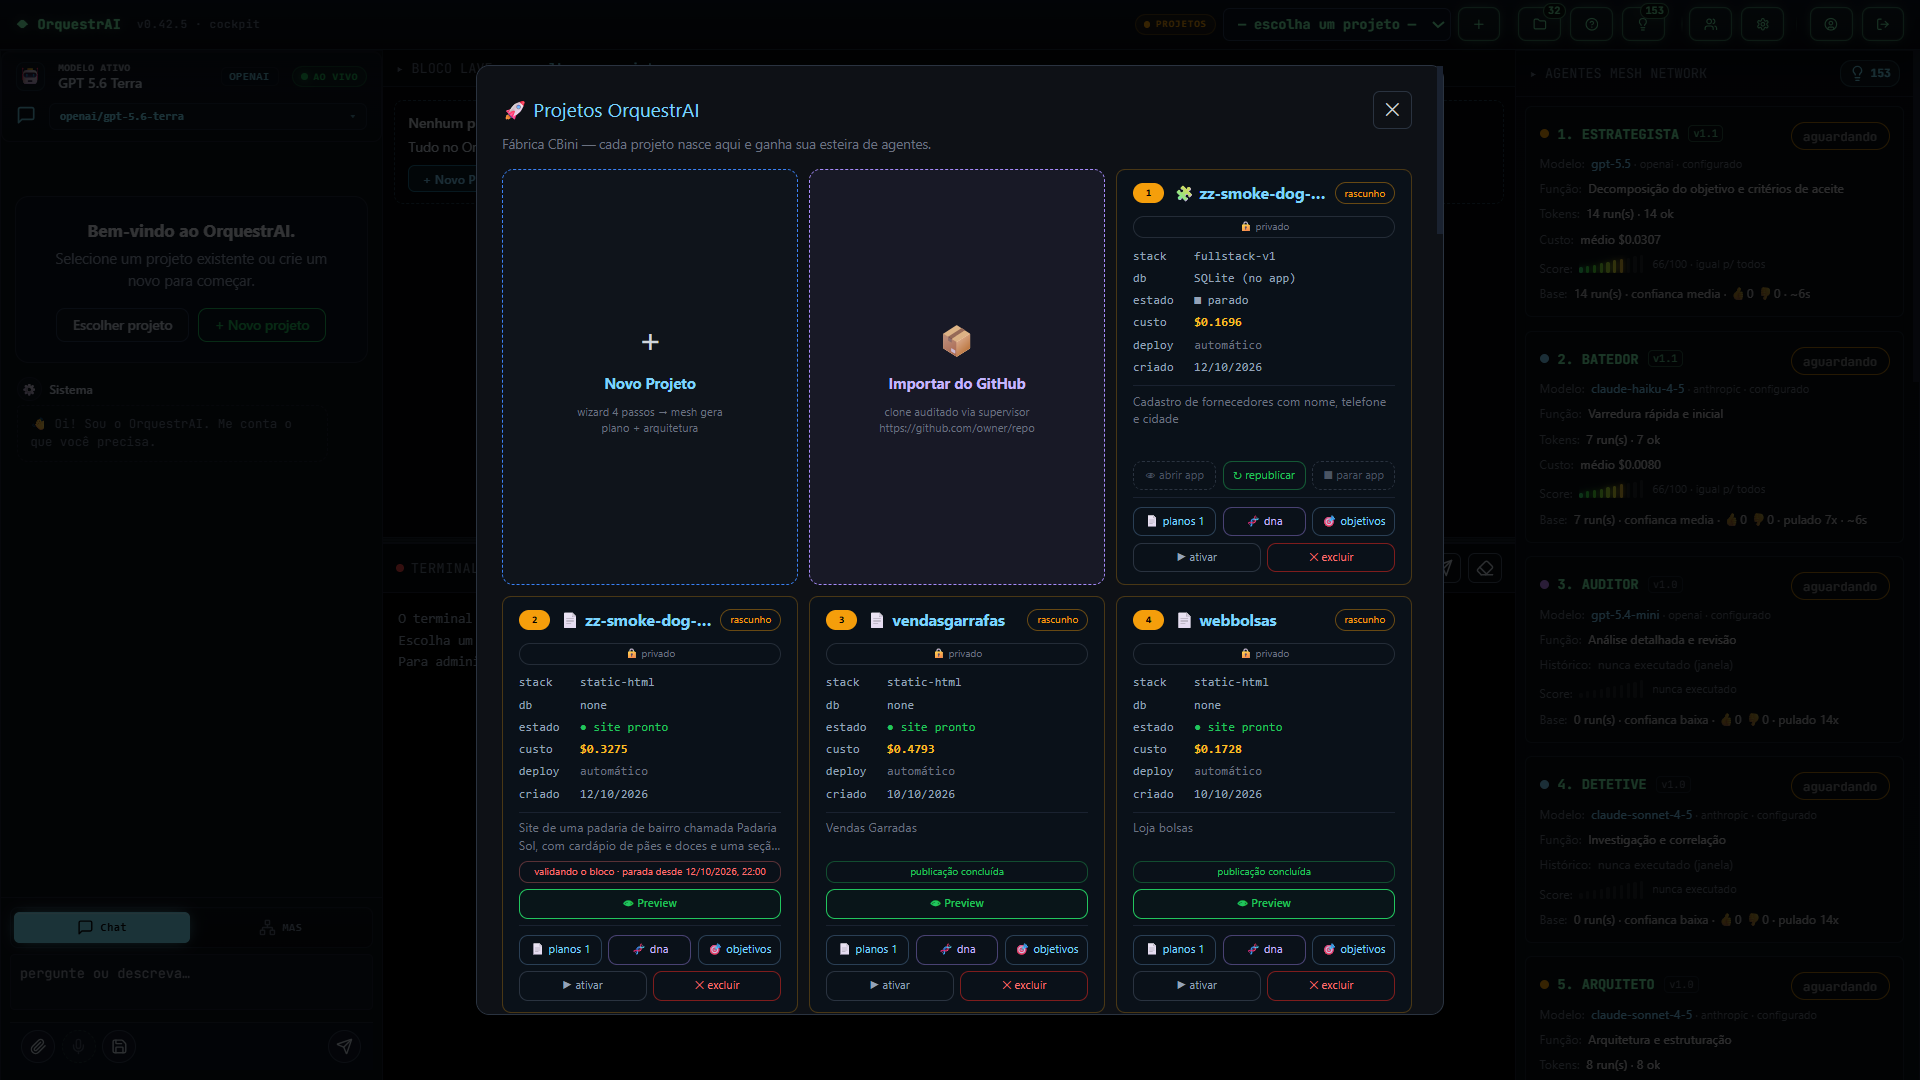
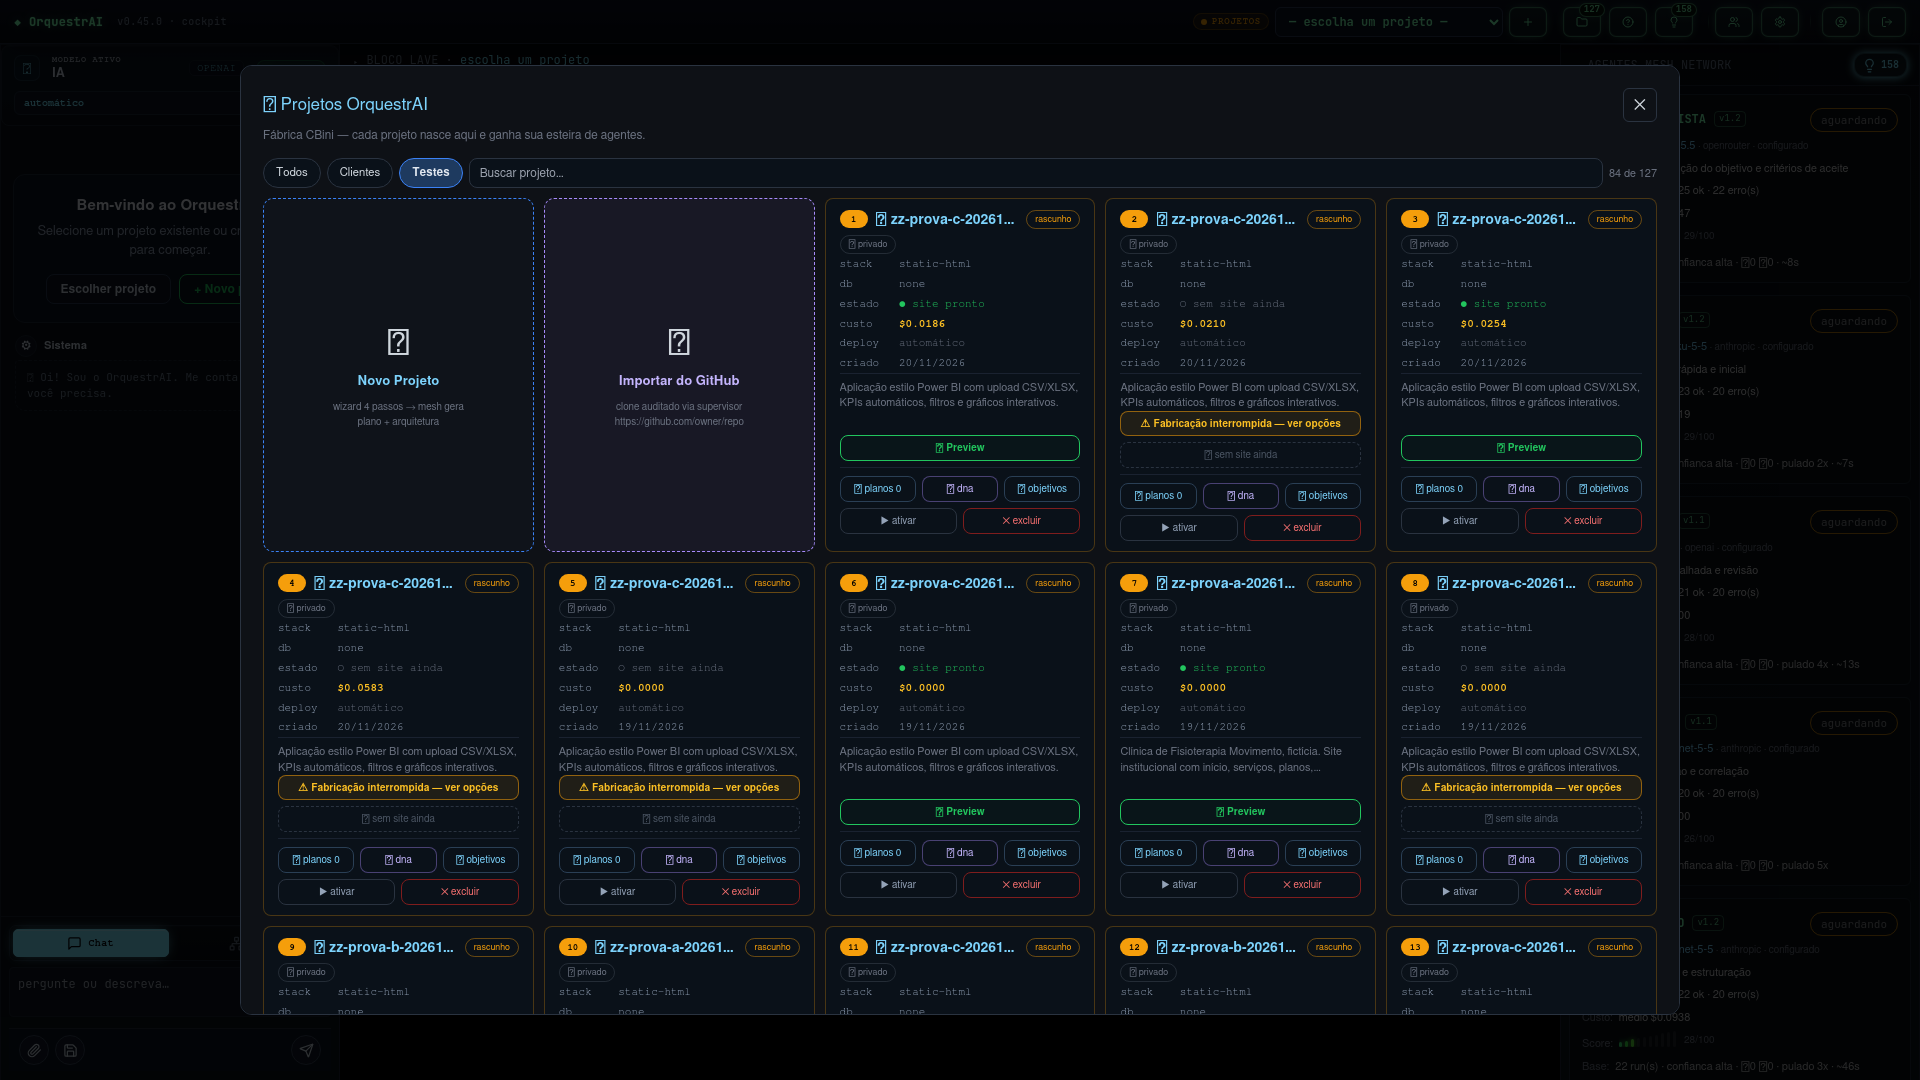
docs: 0.45.1 released (EN/PT/ES) -- project filters, provider cards, sign-in screen; gallery updated with real captures

diff --git a/docs/gallery-br.md b/docs/gallery-br.md
@@ -2,13 +2,20 @@
 
 🇧🇷 **Português** · 🇺🇸 [English](gallery.md) · 🇪🇸 [Español](gallery-es.md) · [README](../README-BR.md) · [Glossário](glossary-br.md) · [Arquitetura](arch-br.md)
 
-Capturas reais de uma instalação em uso (outubro de 2026, versão 0.42), sem edição. Números, estados e avisos aparecem como estavam —
+Capturas reais de uma instalação em uso (outubro de 2026, versão 0.42; acesso, projetos e provedores atualizados em novembro de 2026, versão 0.45.1), sem edição. Números, estados e avisos aparecem como estavam —
 inclusive o que ainda está sendo trabalhado. Clique numa imagem para abri-la em tamanho real.
 
 - [Cockpit e operação](#cockpit-e-operação) · [Agentes e orquestração](#agentes-e-orquestração) ·
   [Governança e conhecimento](#governança-e-conhecimento) · [Provedores e custos](#provedores-e-custos)
 
 ## Cockpit e operação
+
+### Acesso
+<a href="../assets/screenshots/login.png"><img src="../assets/screenshots/login.png" width="100%" alt="Tela de acesso: barra fina com o link para o Changelog, símbolo e nome OrquestrAI com o slogan, protocolo de acesso em quatro etapas e o formulário de e-mail e senha com a verificação da Cloudflare"></a>
+
+A entrada mostra o protocolo de acesso em quatro etapas (ler credenciais, avaliar a sessão, verificar o 2FA, executar o acesso) e o
+formulário com a verificação anti-robô. O slogan "A IA acelera. O humano decide." se escreve e se apaga em loop; para quem reduz o
+movimento no sistema, ele fica fixo, como nesta captura (novembro de 2026, versão 0.45.1).
 
 ### Cockpit
 <a href="../assets/screenshots/cockpit.png"><img src="../assets/screenshots/cockpit.png" width="100%" alt="Cockpit do OrquestrAI sem projeto escolhido: chat com o modelo ativo à esquerda, bloco de comando e terminal somente leitura no centro, malha de agentes com modelo, função, execuções, custo e score à direita"></a>
@@ -21,8 +28,9 @@ função, execuções, custo médio e score de cada um.
 <a href="../assets/screenshots/projetos.png"><img src="../assets/screenshots/projetos.png" width="100%" alt="Janela de projetos: novo projeto e importação do GitHub, e cards de projeto com stack, banco, estado, custo, modo de deploy e data de criação"></a>
 
 Cada card mostra stack, banco, estado, custo acumulado, modo de deploy e data de criação, com preview, planos, DNA (a identidade do
-projeto) e objetivos. Projetos novos começam num assistente guiado; a importação do GitHub passa por um clone auditado. Os cards mostram
-o estado real de cada projeto, inclusive um parado enquanto um bloco era validado.
+projeto) e objetivos. Projetos novos começam num assistente guiado; a importação do GitHub passa por um clone auditado. Desde a 0.45.1, a lista tem os
+filtros Todos, Clientes e Testes e uma busca por nome; nesta captura (novembro de 2026), o filtro Testes mostra só os projetos de prova.
+Os cards mostram o estado real de cada projeto, inclusive construções interrompidas.
 
 ### Estado
 <a href="../assets/screenshots/estado.png"><img src="../assets/screenshots/estado.png" width="100%" alt="Painel de estado: CPU, memória e disco do servidor, idade do backup, checks, placar do roadmap e decisões pendentes do operador"></a>
@@ -76,8 +84,10 @@ quando não existe, a tela diz isso.
 ### Provedores
 <a href="../assets/screenshots/provedores.png"><img src="../assets/screenshots/provedores.png" width="100%" alt="Painel de provedores: saldo por provedor quando disponível e, para cada provedor, estado da conexão, chave configurada, modelo padrão, latência e última verificação"></a>
 
-Por provedor: estado da conexão, modelo padrão, latência e última verificação. O saldo aparece quando o provedor o informa pela API;
-nos demais, é inferido das recusas e rotulado como inferido. As chaves nunca são exibidas — só se há uma configurada.
+Desde a 0.45.1, um cartão por provedor (novembro de 2026): **conexão** (último teste ou última chamada atendida, com a data) e
+**saldo**. O saldo aparece quando o provedor o informa pela API; nos demais, é inferido das recusas e rotulado como inferido, ou aparece
+"não informado pelo provedor". Abaixo, a lista detalhada: estado, modelo do teste, latência e última verificação. As chaves nunca são
+exibidas — só se há uma configurada.
 
 ### Telemetria
 <a href="../assets/screenshots/telemetria.png"><img src="../assets/screenshots/telemetria.png" width="100%" alt="Telemetria: chamadas, custo medido, tokens e falhas em 30 dias e desde o início, e chamadas por classe de preço"></a>

diff --git a/docs/gallery-es.md b/docs/gallery-es.md
@@ -2,13 +2,20 @@
 
 🇪🇸 **Español** · 🇧🇷 [Português](gallery-br.md) · 🇺🇸 [English](gallery.md) · [README](../README-ES.md) · [Glosario](glossary-es.md) · [Arquitectura](arch-es.md)
 
-Capturas reales de una instalación en uso (octubre de 2026, versión 0.42), sin edición. La interfaz está en portugués. Números, estados
+Capturas reales de una instalación en uso (octubre de 2026, versión 0.42; acceso, proyectos y proveedores actualizados en noviembre de 2026, versión 0.45.1), sin edición. La interfaz está en portugués. Números, estados
 y avisos se muestran como estaban — incluso lo que todavía está en desarrollo. Haga clic en una imagen para abrirla a tamaño real.
 
 - [Cockpit y operación](#cockpit-y-operación) · [Agentes y orquestación](#agentes-y-orquestación) ·
   [Gobernanza y conocimiento](#gobernanza-y-conocimiento) · [Proveedores y costos](#proveedores-y-costos)
 
 ## Cockpit y operación
+
+### Acceso
+<a href="../assets/screenshots/login.png"><img src="../assets/screenshots/login.png" width="100%" alt="Pantalla de acceso: barra fina con el enlace al Changelog, símbolo y nombre OrquestrAI con el lema, protocolo de acceso en cuatro pasos y el formulario de correo y contraseña con la verificación de Cloudflare"></a>
+
+La entrada muestra el protocolo de acceso en cuatro pasos (leer credenciales, evaluar la sesión, verificar el 2FA, ejecutar el acceso)
+y el formulario con la verificación anti-robot. El lema "A IA acelera. O humano decide." (La IA acelera. El humano decide.) se escribe y
+se borra en bucle; para quien reduce el movimiento, queda fijo, como en esta captura (noviembre de 2026, versión 0.45.1).
 
 ### Cockpit
 <a href="../assets/screenshots/cockpit.png"><img src="../assets/screenshots/cockpit.png" width="100%" alt="Cockpit de OrquestrAI sin proyecto elegido: chat con el modelo activo a la izquierda, bloque de comando y terminal de solo lectura en el centro, malla de agentes con modelo, función, ejecuciones, costo y puntuación a la derecha"></a>
@@ -22,7 +29,9 @@ agentes — modelo, función, ejecuciones, costo medio y puntuación de cada uno
 
 Cada tarjeta muestra stack, base de datos, estado, costo acumulado, modo de despliegue y fecha de creación, con vista previa, planes,
 ADN (la identidad del proyecto) y objetivos. Los proyectos nuevos empiezan en un asistente guiado; la importación desde GitHub pasa por un
-clon auditado. Las tarjetas muestran el estado real de cada proyecto, incluido uno detenido mientras se validaba un bloque.
+clon auditado. Desde la 0.45.1, la lista tiene los filtros Todos, Clientes y Pruebas y una búsqueda por nombre; en esta captura (noviembre
+de 2026) el filtro Pruebas muestra solo los proyectos de prueba. Las tarjetas muestran el estado real de cada proyecto, incluidas
+construcciones interrumpidas.
 
 ### Estado
 <a href="../assets/screenshots/estado.png"><img src="../assets/screenshots/estado.png" width="100%" alt="Panel de estado: CPU, memoria y disco del servidor, antigüedad del respaldo, verificaciones, puntuación del roadmap y decisiones pendientes del operador"></a>
@@ -76,8 +85,10 @@ procedencia se muestra — y, cuando no existe, la pantalla lo dice.
 ### Proveedores
 <a href="../assets/screenshots/provedores.png"><img src="../assets/screenshots/provedores.png" width="100%" alt="Panel de proveedores: saldo por proveedor cuando está disponible y, para cada proveedor, estado de conexión, clave configurada, modelo predeterminado, latencia y última verificación"></a>
 
-Por proveedor: estado de conexión, modelo predeterminado, latencia y última verificación. El saldo aparece cuando el proveedor lo informa
-por su API; en los demás se infiere de los rechazos y se marca como inferido. Las claves nunca se muestran — solo si hay una configurada.
+Desde la 0.45.1, una tarjeta por proveedor (noviembre de 2026): **conexión** (última prueba o última llamada atendida, con la fecha) y
+**saldo**. El saldo aparece cuando el proveedor lo informa por su API; en los demás se infiere de los rechazos y se marca como inferido,
+o aparece "no informado por el proveedor". Debajo, la lista detallada: estado, modelo de la prueba, latencia y última verificación. Las
+claves nunca se muestran — solo si hay una configurada.
 
 ### Telemetría
 <a href="../assets/screenshots/telemetria.png"><img src="../assets/screenshots/telemetria.png" width="100%" alt="Telemetría: llamadas, costo medido, tokens y fallos en 30 días y desde el inicio, y llamadas por clase de precio"></a>

diff --git a/docs/gallery.md b/docs/gallery.md
@@ -2,13 +2,20 @@
 
 🇺🇸 **English** · 🇧🇷 [Português](gallery-br.md) · 🇪🇸 [Español](gallery-es.md) · [README](../README.md) · [Glossary](glossary.md) · [Architecture](arch.md)
 
-Real captures of a live deployment (October 2026, version 0.42), unedited. The interface is in Portuguese. Numbers, states and
+Real captures of a live deployment (October 2026, version 0.42; sign-in, projects and providers updated in November 2026, version 0.45.1), unedited. The interface is in Portuguese. Numbers, states and
 warnings are shown as they were — including things that are still being worked on. Click any image to open it at full size.
 
 - [Cockpit and operation](#cockpit-and-operation) · [Agents and orchestration](#agents-and-orchestration) ·
   [Governance and knowledge](#governance-and-knowledge) · [Providers and costs](#providers-and-costs)
 
 ## Cockpit and operation
+
+### Sign-in
+<a href="../assets/screenshots/login.png"><img src="../assets/screenshots/login.png" width="100%" alt="Sign-in screen: a thin bar with the Changelog link, the OrquestrAI mark and name with the tagline, the four-step access protocol, and the email and password form with the Cloudflare check"></a>
+
+The sign-in screen shows the four-step access protocol (read credentials, assess the session, verify 2FA, grant access) and the form
+with the anti-bot check. The tagline "A IA acelera. O humano decide." (AI accelerates. Humans decide.) types and erases in a loop; for
+people who reduce motion, it stays still, as in this capture (November 2026, version 0.45.1).
 
 ### Cockpit
 <a href="../assets/screenshots/cockpit.png"><img src="../assets/screenshots/cockpit.png" width="100%" alt="OrquestrAI cockpit with no project selected: chat with the active model on the left, command block and read-only terminal in the centre, agent mesh with model, role, runs, cost and score per agent on the right"></a>
@@ -21,8 +28,9 @@ average cost and score.
 <a href="../assets/screenshots/projetos.png"><img src="../assets/screenshots/projetos.png" width="100%" alt="Projects window: new project and GitHub import, and project cards with stack, database, state, cost, deploy mode and creation date"></a>
 
 Each project card shows stack, database, state, accumulated cost, deploy mode and creation date, with preview, plans, DNA (the
-project's identity) and objectives. New projects start in a guided wizard; GitHub import goes through an audited clone. Cards show the
-real state of each project, including one stopped while a command block was being validated.
+project's identity) and objectives. New projects start in a guided wizard; GitHub import goes through an audited clone. Since 0.45.1 the list has All, Clients and Tests
+filters and a name search; in this capture (November 2026) the Tests filter shows only the proof projects. Cards show the real state of
+each project, including interrupted builds.
 
 ### State
 <a href="../assets/screenshots/estado.png"><img src="../assets/screenshots/estado.png" width="100%" alt="State panel: server CPU, memory and disk, backup age, checks, roadmap score and pending operator decisions"></a>
@@ -76,8 +84,10 @@ when there is none, the screen says so.
 ### Providers
 <a href="../assets/screenshots/provedores.png"><img src="../assets/screenshots/provedores.png" width="100%" alt="Providers panel: balance per provider where available, and per provider the connection state, key configured, default model, latency and last check"></a>
 
-Per provider: connection state, default model, latency and last check. Balance is shown where the provider reports it through its API;
-elsewhere it is inferred from refusals and labeled as inferred. Keys are never displayed — only whether one is configured.
+Since 0.45.1, one card per provider (November 2026): **connection** (latest test or latest served call, with the date) and **balance**.
+Balance is shown where the provider reports it through its API; elsewhere it is inferred from refusals and labeled as inferred, or shows
+"not reported by the provider". Below, the detailed list: state, test model, latency and last check. Keys are never displayed — only
+whether one is configured.
 
 ### Telemetry
 <a href="../assets/screenshots/telemetria.png"><img src="../assets/screenshots/telemetria.png" width="100%" alt="Telemetry: calls, measured cost, tokens and failures for 30 days and all time, and calls split by price class"></a>

diff --git a/CHANGELOG-ES.md b/CHANGELOG-ES.md
@@ -17,6 +17,19 @@ todavía no es una funcionalidad. Fechas en formato AAAA-MM-DD.
 
 ---
 
+## 0.45.1 — 2026-11-20 · Publicada
+
+Acabado después del MVP: las interfaces aprobadas por el fundador y una corrección para instalaciones nuevas. La autenticación no cambió.
+
+**Entregado**
+- **Proyectos: filtro y búsqueda.** Todos, Clientes y Pruebas, con búsqueda por nombre (ignora acentos y guiones) y el conteo "N de M". Solo lectura.
+- **Proveedores: una tarjeta por proveedor.** Franja de color sutil; **Conexión** (última prueba o última llamada atendida, la más reciente, con fecha) y **Saldo** (consultado, inferido por rechazo o "no informado por el proveedor"). La lista detallada sigue debajo.
+- **Login:** barra fina con el enlace a este changelog; el lema "A IA acelera. O humano decide." (La IA acelera. El humano decide.) se escribe y se borra en bucle, y queda fijo para quien reduce el movimiento.
+
+**Corregido**
+- Instalación sin clave de OpenRouter: el nivel Económico ya no aparece como disponible antes de registrar la clave; la tarjeta dice qué hacer.
+- Instalador: una instalación nueva ahora incluye el verificador funcional de las construcciones. La instalación limpia en un servidor nuevo aún no está comprobada.
+
 ## 0.45.0 — 2026-11-20 · MVP · Publicada
 
 Es la primera versión pensada como producto mínimo completo. Se lanzó después de que tres construcciones reales superaran la

diff --git a/CHANGELOG-BR.md b/CHANGELOG-BR.md
@@ -16,6 +16,19 @@ ainda não é funcionalidade. Datas no formato AAAA-MM-DD.
 
 ---
 
+## 0.45.1 — 2026-11-20 · Publicada
+
+Acabamento depois do MVP: as interfaces aprovadas pelo fundador e uma correção para instalações novas. A autenticação não mudou.
+
+**Entregue**
+- **Projetos: filtro e busca.** Todos, Clientes e Testes, com busca por nome (ignora acento e hífen) e a contagem "N de M". Só leitura.
+- **Provedores: um cartão por provedor.** Faixa de cor sutil; **Conexão** (último teste ou última chamada atendida, o mais recente, com data) e **Saldo** (consultado, inferido por recusa ou "não informado pelo provedor"). A lista detalhada continua abaixo.
+- **Login:** barra fina com o link para este changelog; o slogan "A IA acelera. O humano decide." se escreve e se apaga em loop, e fica fixo para quem reduz o movimento no sistema.
+
+**Corrigido**
+- Instalação sem chave do OpenRouter: o nível Econômico não aparece mais como disponível antes de a chave ser cadastrada; o cartão diz o que fazer.
+- Instalador: uma instalação nova passa a levar o verificador funcional das construções. A instalação limpa numa VPS ainda não foi comprovada.
+
 ## 0.45.0 — 2026-11-20 · MVP · Publicada
 
 É a primeira versão pensada como produto mínimo completo. Foi lançada depois que três construções reais passaram na verificação

diff --git a/CHANGELOG.md b/CHANGELOG.md
@@ -16,6 +16,19 @@ feature yet. Dates are in the format YYYY-MM-DD.
 
 ---
 
+## 0.45.1 — 2026-11-20 · Released
+
+Polish after the MVP: the screens approved by the founder and a fix for new installations. Authentication did not change.
+
+**Delivered**
+- **Projects: filter and search.** All, Clients and Tests, with name search (accents and hyphens ignored) and an "N of M" count. Read-only.
+- **Providers: one card per provider.** A subtle color strip; **Connection** (latest test or latest served call, whichever is newer, with the date) and **Balance** (queried, inferred from a refusal, or "not reported by the provider"). The detailed list stays below.
+- **Login:** a thin bar with a link to this changelog; the tagline "A IA acelera. O humano decide." (AI accelerates. Humans decide.) types, pauses and erases in a loop, and stays still for people who reduce motion.
+
+**Fixed**
+- Installation without an OpenRouter key: the Economy level no longer shows as available before the key is added; the card says what to do.
+- Installer: a new installation now includes the functional checker for builds. A clean install on a fresh server has not been proven yet.
+
 ## 0.45.0 — 2026-11-20 · MVP · Released
 
 This is the first version meant as a complete minimum product. It was released after three real builds passed the functional
